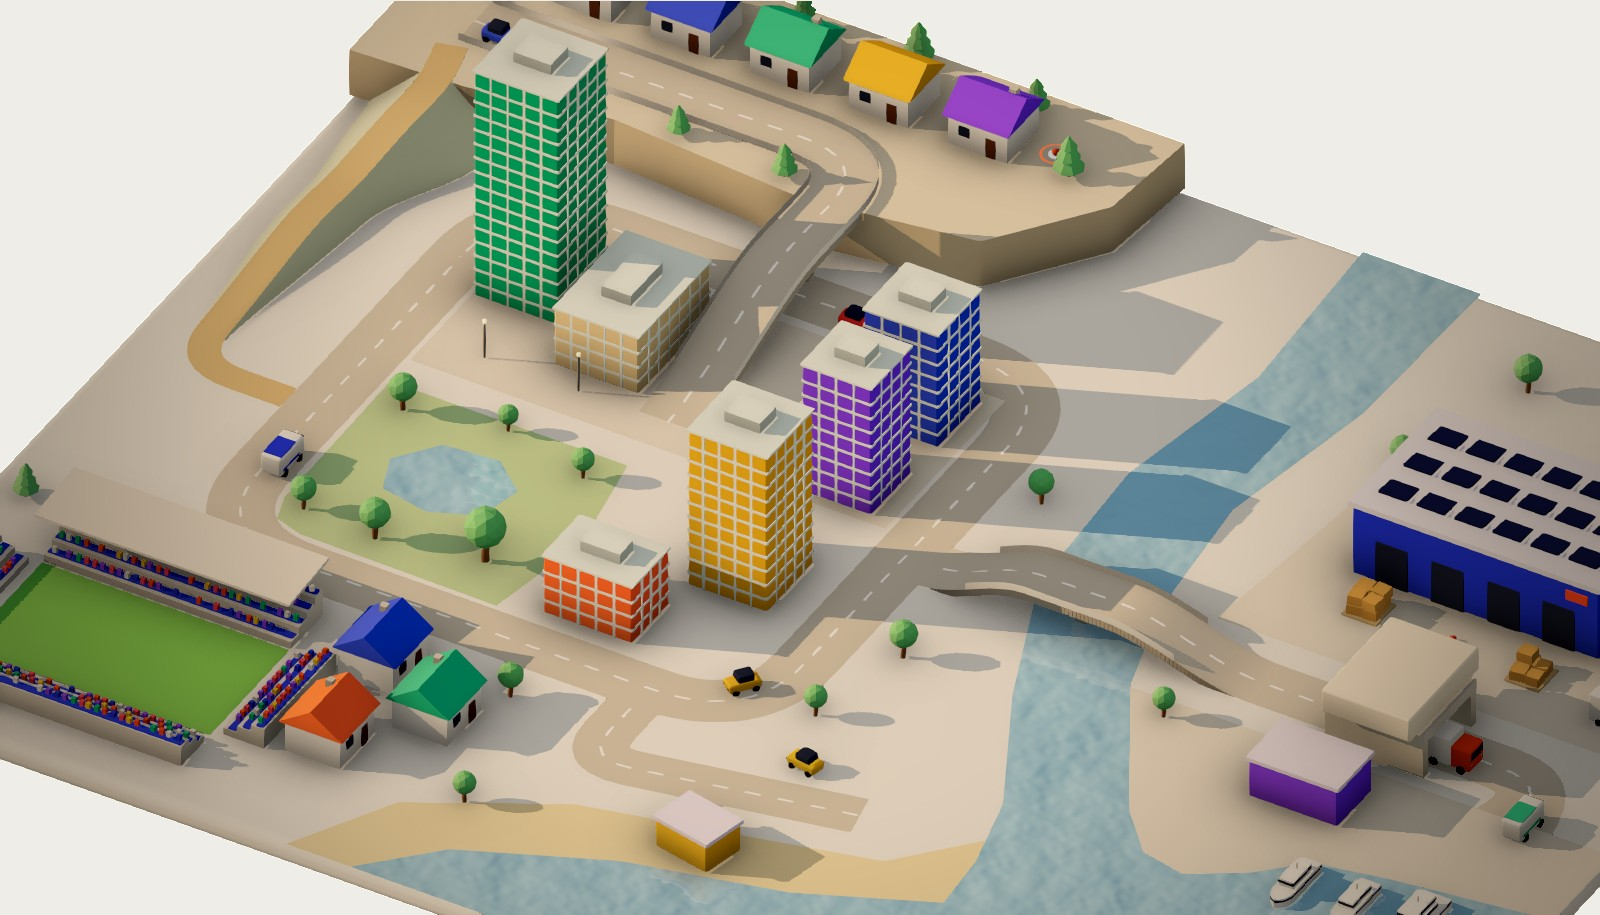
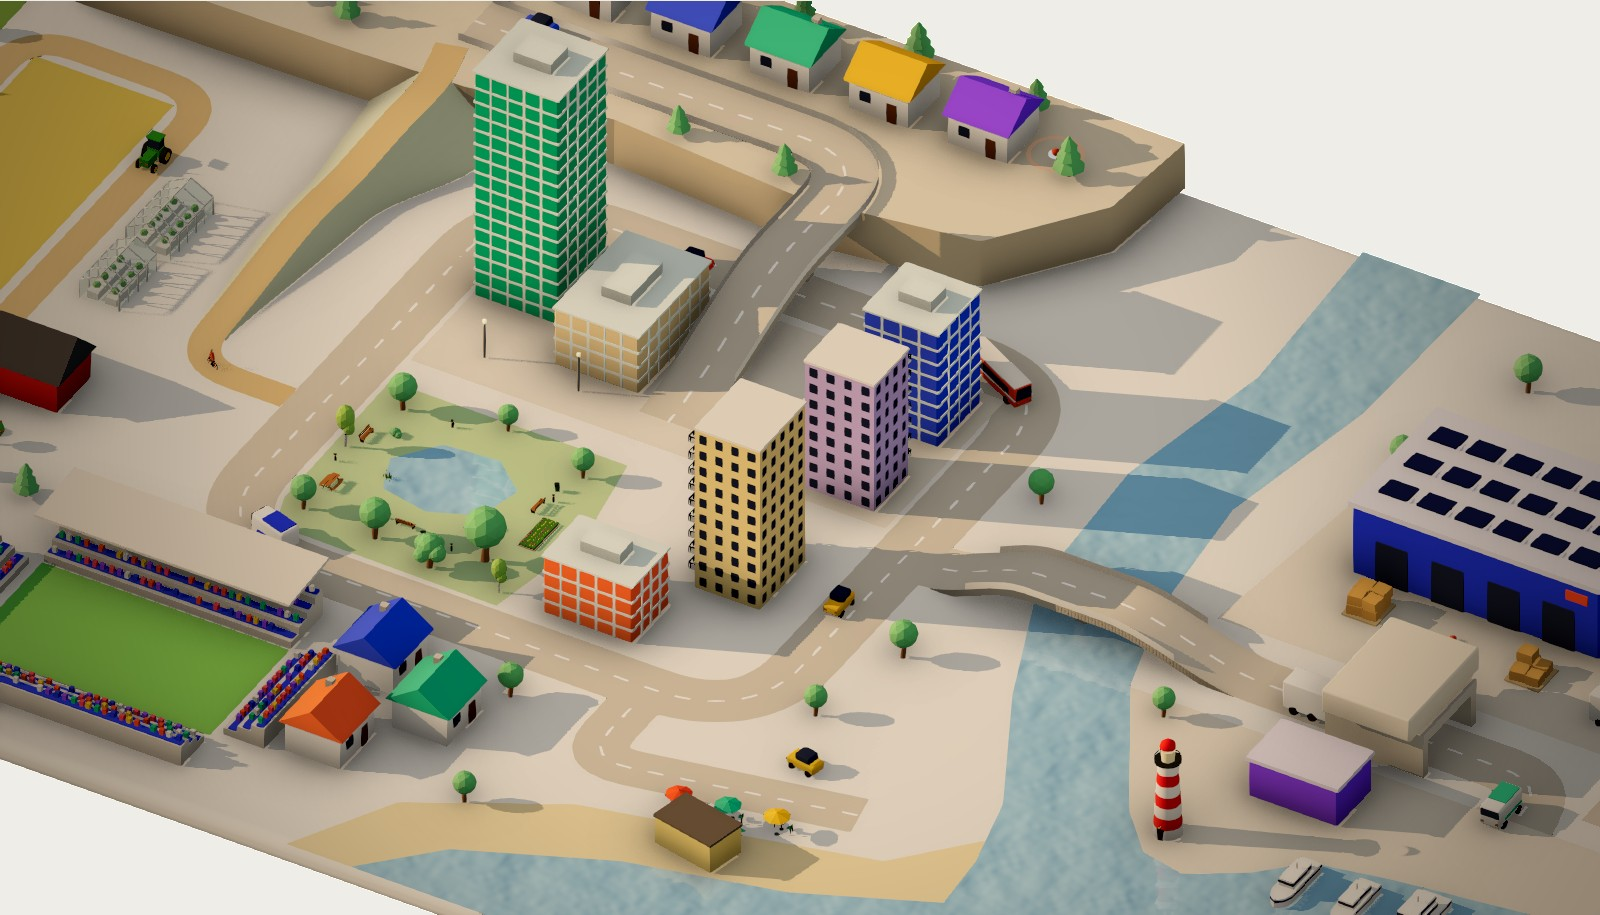
docs: the gallery retaken on the grown worlds, with Lantern Bay's lighthouse point and harbour lanes and Brightwater's old town and farmland

diff --git a/README.md b/README.md
@@ -10,7 +10,9 @@ Build animated 3D miniature worlds that show your data: drop in buildings, vehic
 |---|---|
 | ![Lantern Bay at night: lamps along the promenade, lit windows reflected in the bay](docs/gallery/lantern-bay-promenade-21.5.jpg) | ![Lantern Bay's harbour basin at blue hour, the yachts and lit towers mirrored in still water](docs/gallery/lantern-bay-basin-19.8.jpg) |
 | ![Lantern Bay at a glance, with its evening in numbers on data cards](docs/gallery/lantern-bay-cards-overview-18.3.jpg) | ![Brightwater with its live numbers on data cards: stadium, park, ring road, marina, depot](docs/gallery/brightwater-cards-overview-daylight.jpg) |
+| ![Lantern Bay's lighthouse point at night, its beam sweeping the bay below the lit towers](docs/gallery/lantern-bay-lighthouse-21.5.jpg) | ![Lantern Bay's harbour lanes at golden hour: shops and a café terrace under string lights by the quay](docs/gallery/lantern-bay-lanes-18.3.jpg) |
 | ![Brightwater's downtown at golden hour, long shadows across the river](docs/gallery/brightwater-downtown-17.8.jpg) | ![Brightwater at night on the dark theme: lit windows, street lamps, headlights and boats](docs/gallery/brightwater-dark-overview-22.jpg) |
+| ![Brightwater's old town at golden hour: the high street with shops, a café terrace, the church and the tram](docs/gallery/brightwater-old_town-17.8.jpg) | ![Brightwater's farmland by day: fields inside a farm track, a tractor, the barn, greenhouses and Hollow Wood](docs/gallery/brightwater-farmland-15.jpg) |
 
 Drawn on the Ultra graphics preset. `node scripts/gallery.mjs` retakes them all (on WSL with Windows' node, `node.exe`, for the real GPU) from a running `pnpm dev`.
 
